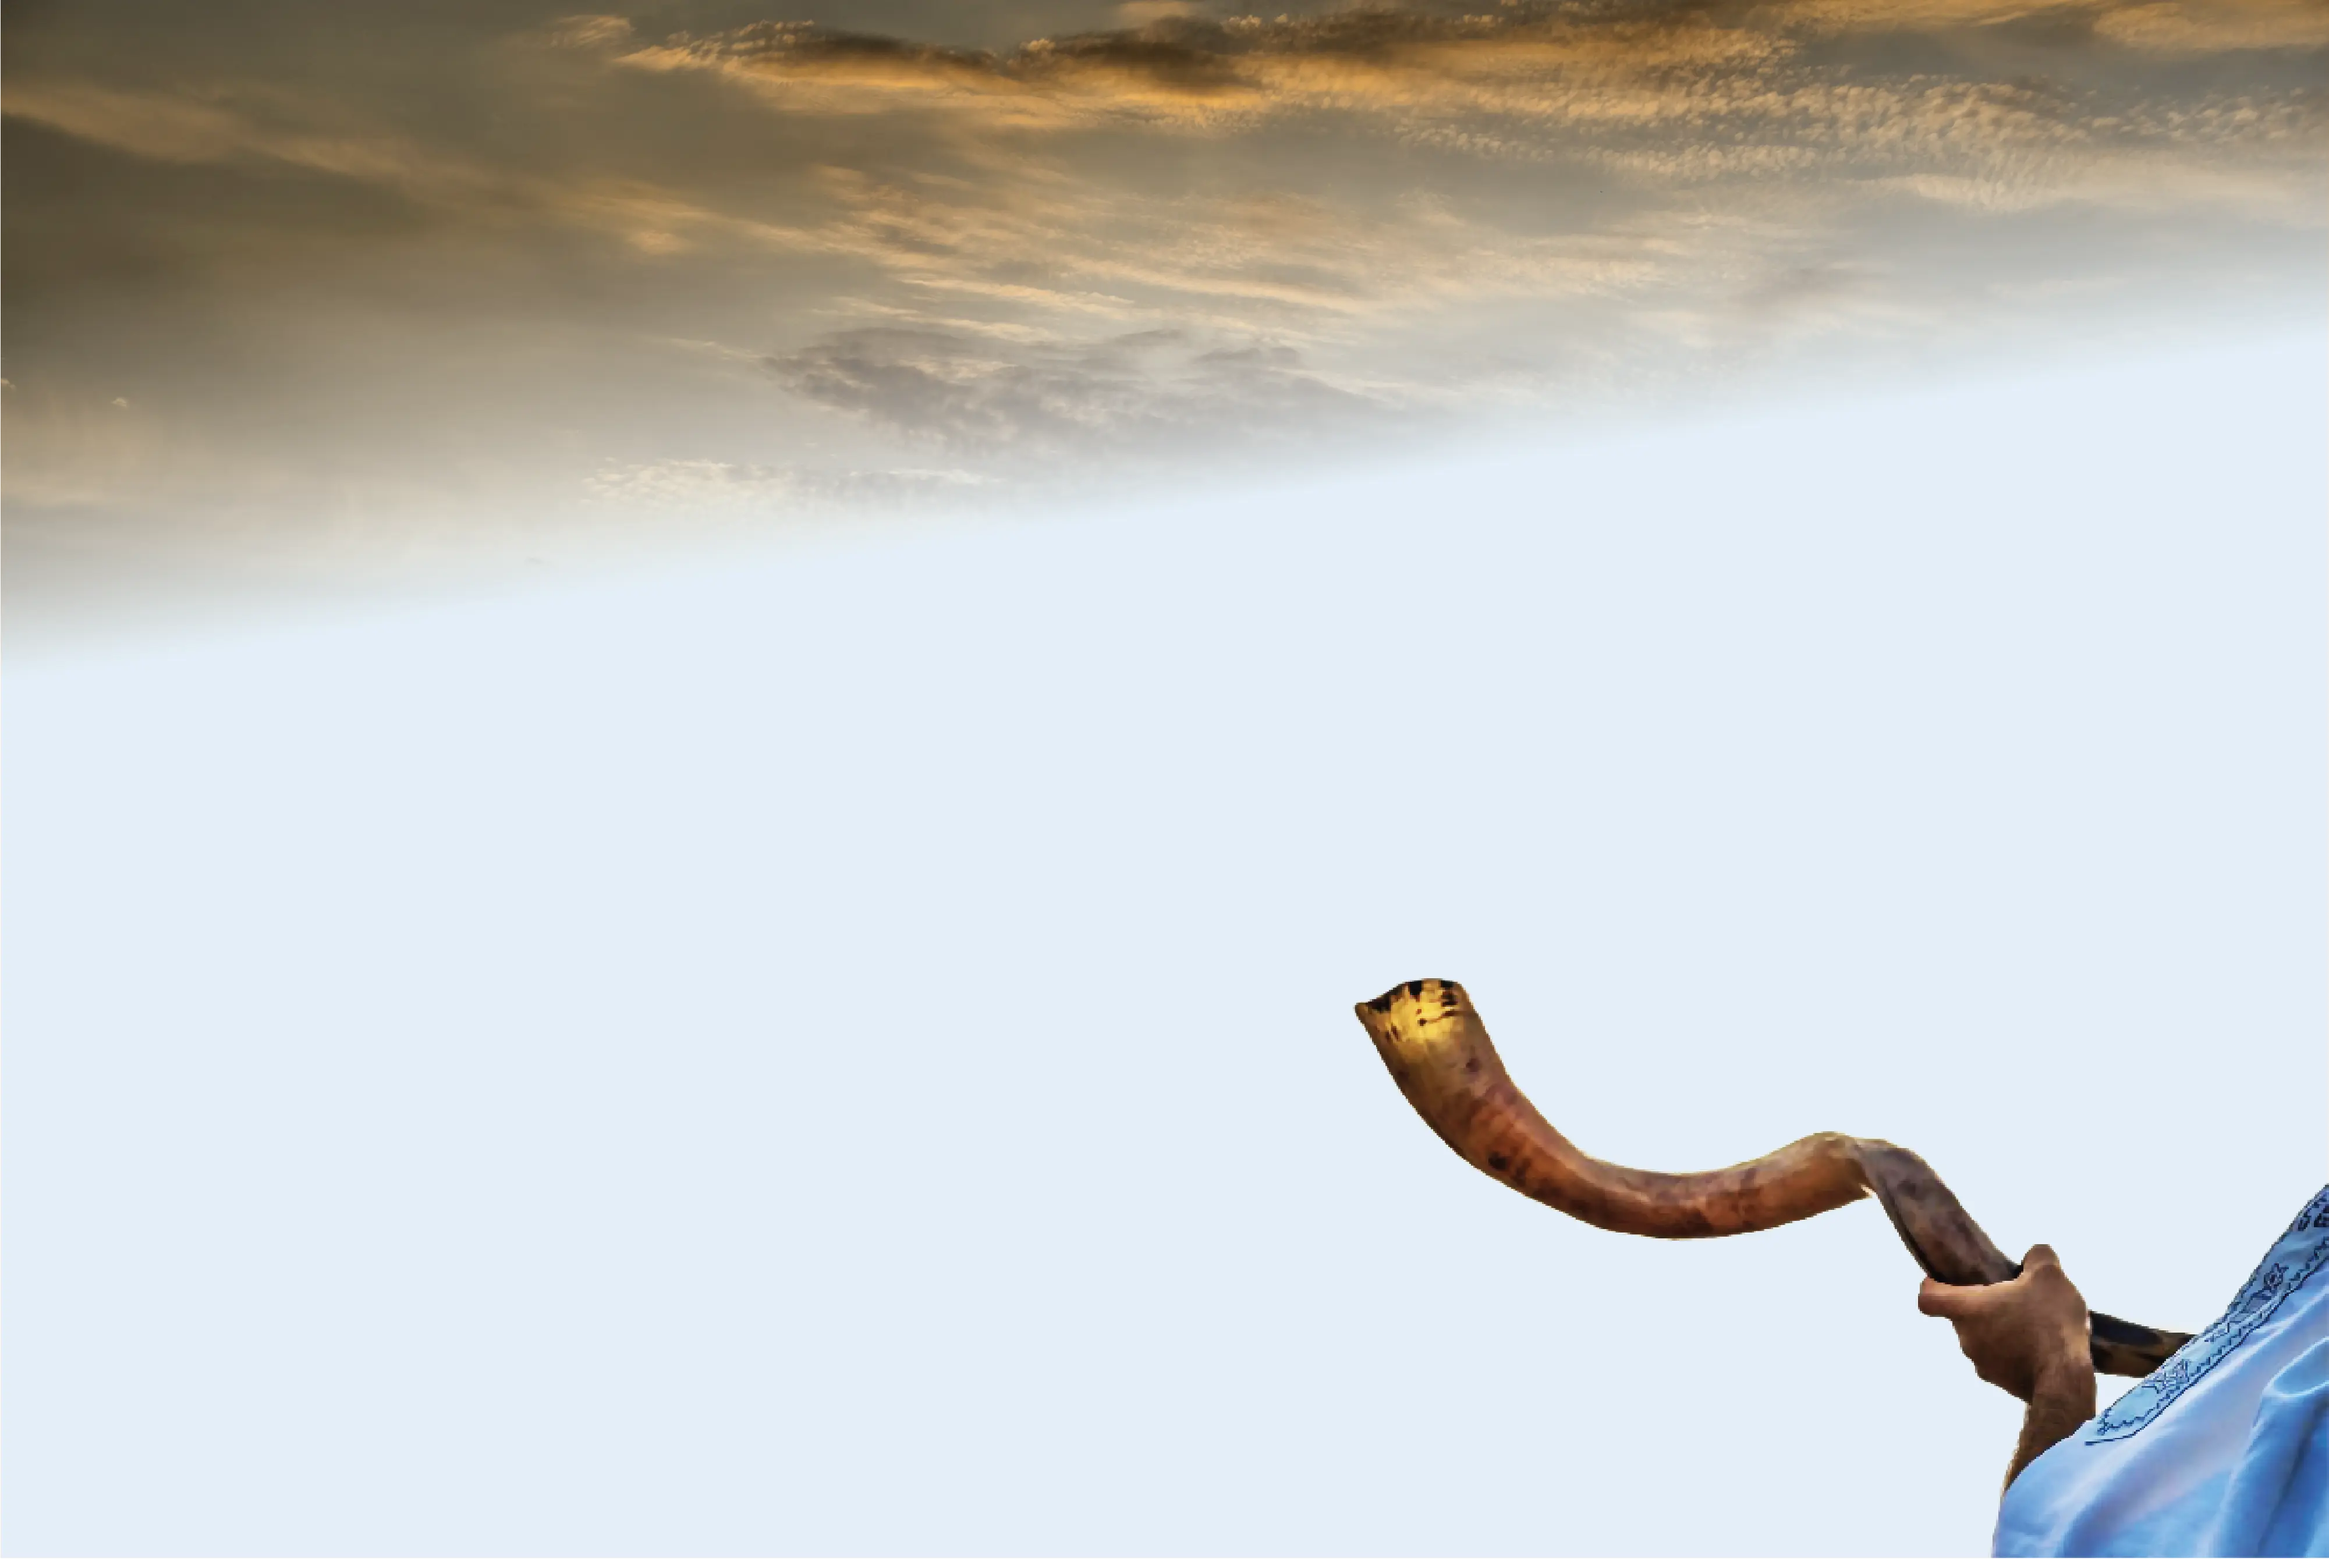
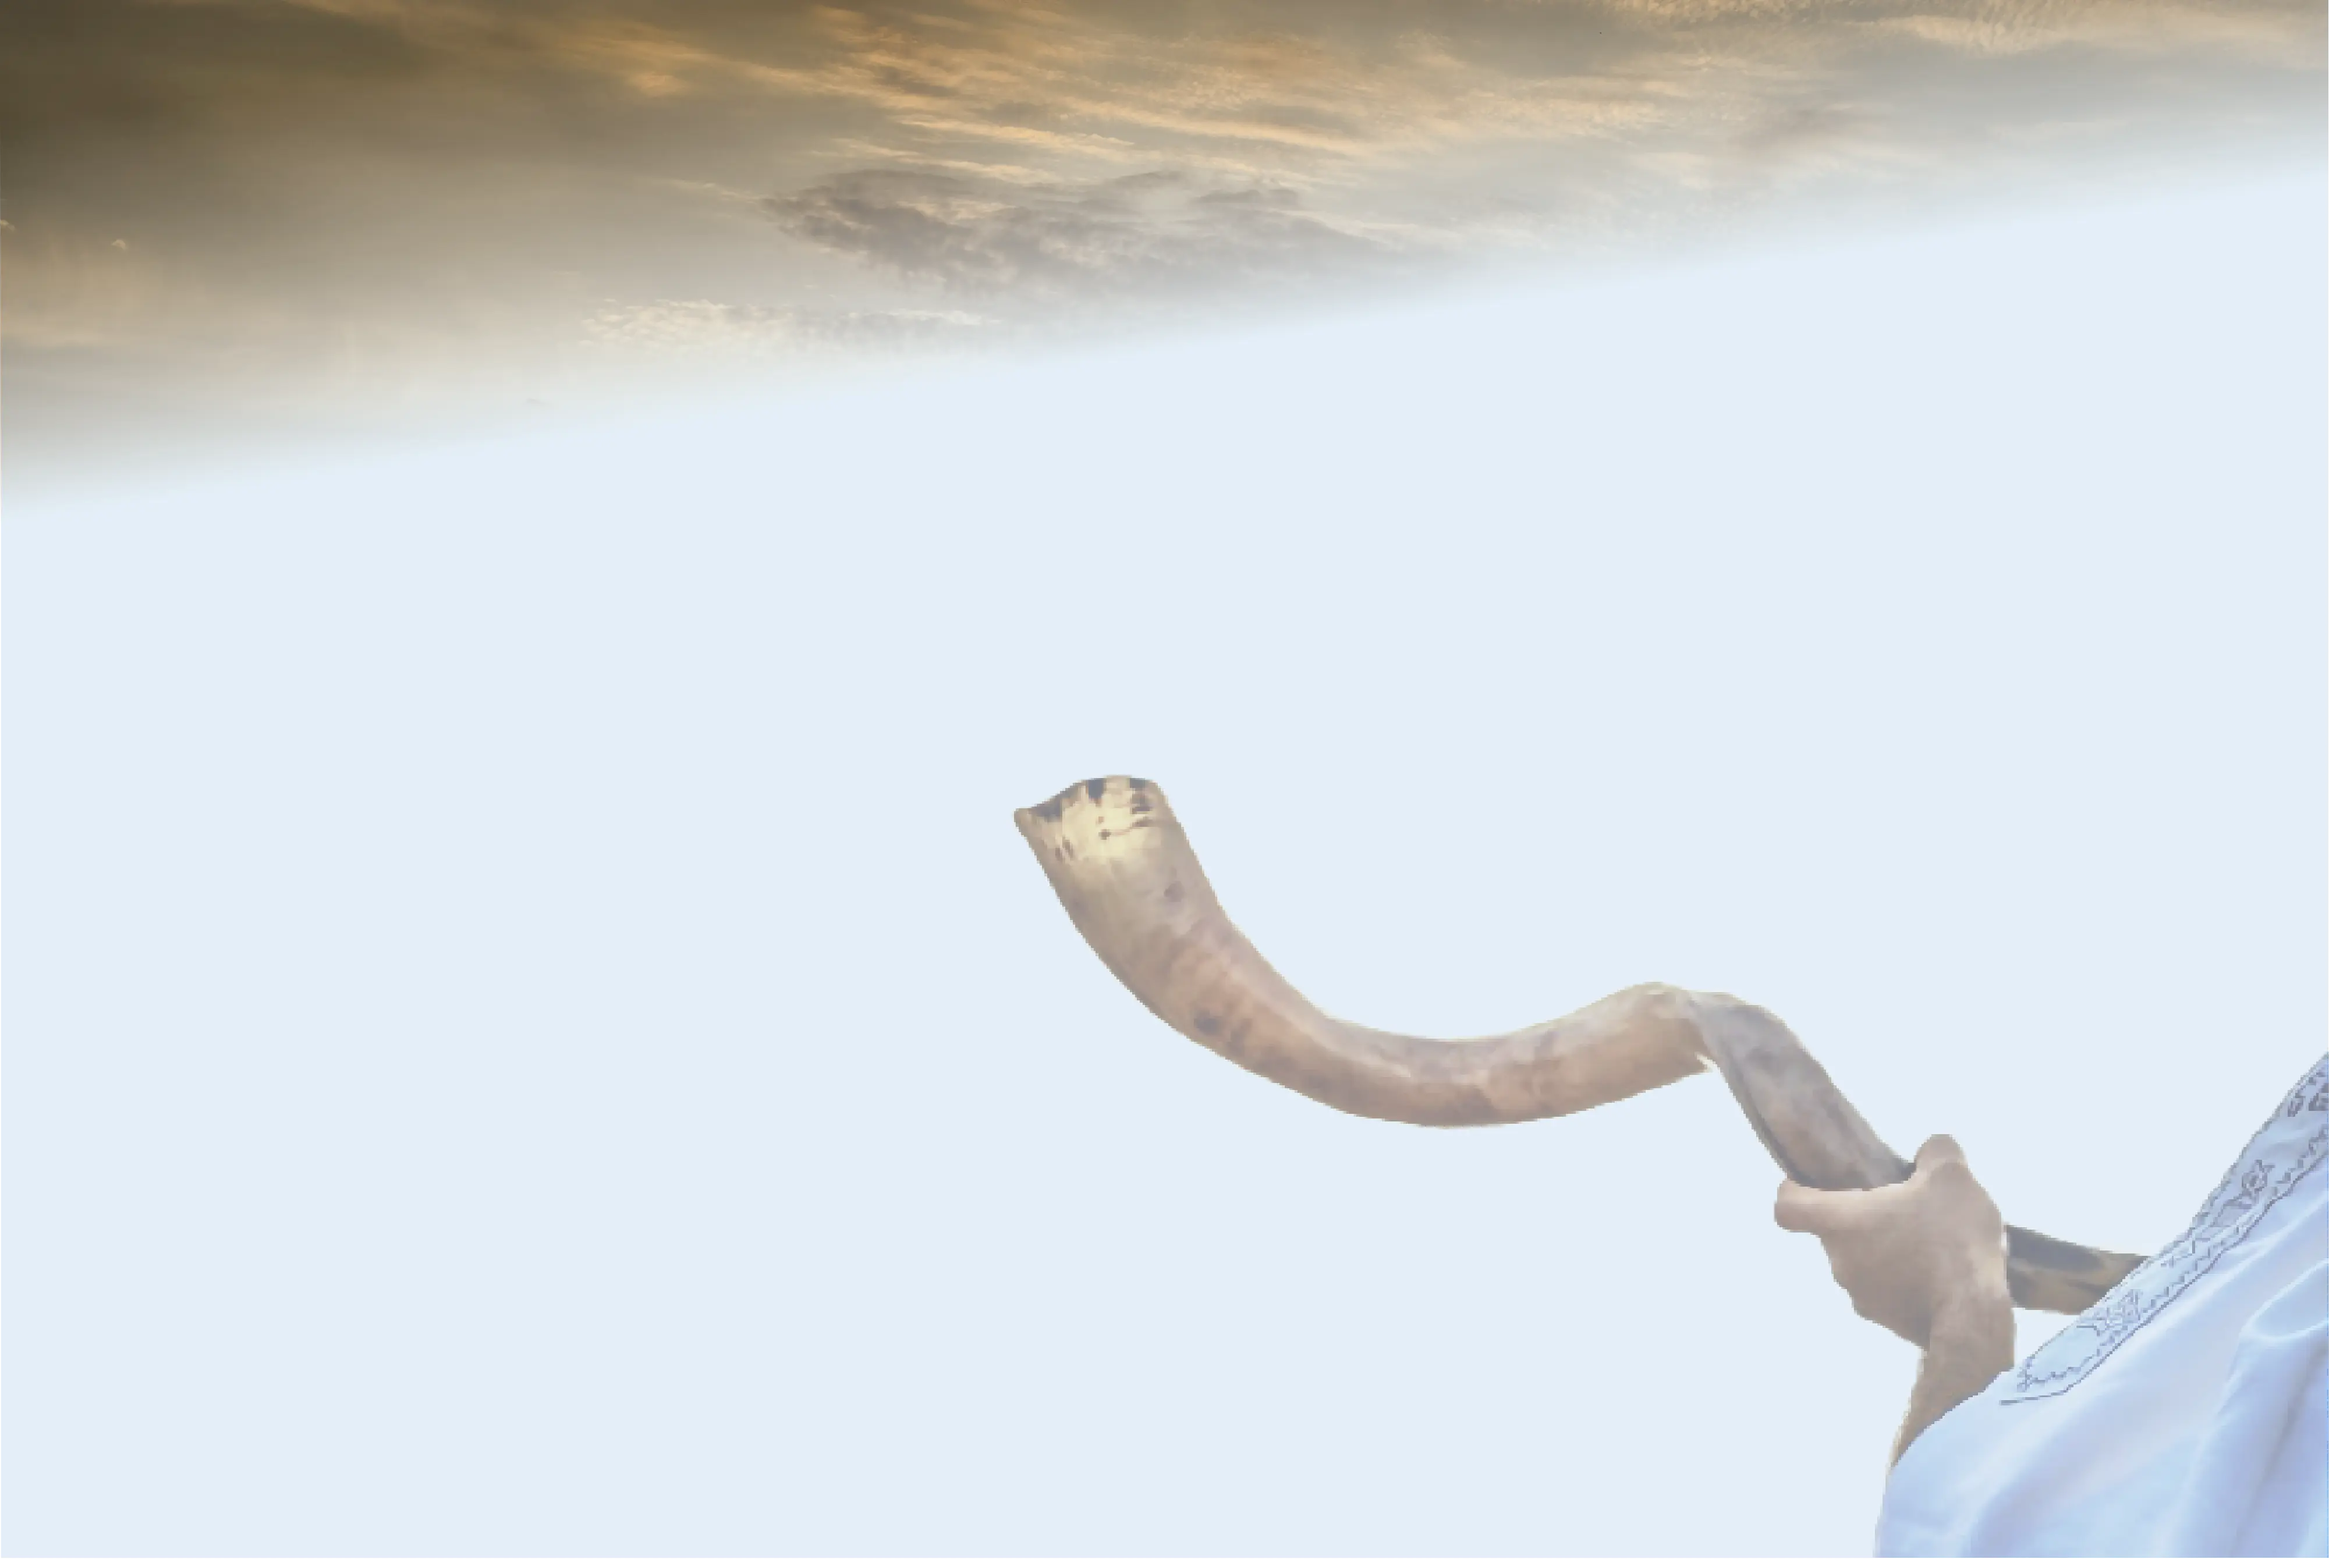
changes for Teruah

diff --git a/index.html b/index.html
@@ -114,20 +114,19 @@
             <a href="https://casadedios.mx/blog-post.php?slug=la-fiesta-de-las-trompetas-una-solemnidad-con-un-mensaje-literal-espiritual-y-prof-tico"
                 class="btn btn-light btn-lg mt-4 custom-btn">
 
-                <!--
-                <svg class="me-2" width="1em" height="1em" viewBox="0 0 668.38 633.48" fill="black"
-                    xmlns="http://www.w3.org/2000/svg">
+                <svg class="me-2" width="1.4em" height="1.4em" viewBox="0 0 283.12 161" fill="currentColor"
+                    xmlns="http://www.w3.org/2000/svg" style="vertical-align: -0.2em;">
                     <g id="nosotros">
                         <g id="Shofar">
-                            <path class="cls-1"
+                            <path
                                 d="M239.63,158.54c-2.24-.34-3.53-2.94-4.8-4.6-3-3.93-5.9-7.5-8.7-11.62-6.43-9.46-11.06-19.5-15.2-30.21-5.06-13.07-8.13-26.29-8.42-40.84-9.02,7.4-19.98,13.12-30.94,16.22-40.58,11.43-73.2-7.33-98.44-37.8l-3.42-4.13h0c-4.74-6.59-11.31-14.44-20.16-22.15-.7-.91-1.63-1.78-3.29-2.77-.16-.13-.31-.26-.47-.39-1.05-.84-2.08-1.65-3.12-2.43-4.19-4.3-9.48-6.96-14.73-9.67t0,0c-3.06-1.94-8.05-4.49-14.6-5.34-2.58-.33-4.92-.34-6.93-.2h0C5.44,1.74,4.52.1,3.4,0,2.03-.11.11.99.09,2.39L0,10.25c-.02,1.88,1.08,3.24,3.01,3.4,1.42.12,2.64-1.44,3.19-3.2h0c3.7.91,9.38,2.72,15.53,6.48l-.02.14c-.02.13.24.17.54.19.75.47,1.5.96,2.25,1.48,1.37,1.29,2.99,2.6,4.61,3.6.42.37.84.74,1.24,1.11l1.15,2.28c1.7.99,2.62,1.91,3.37,3.81l.9-.2c.43.54.85,1.08,1.27,1.64.64,2.36,2.68,4.39,4.57,6.8,1.18,2.18,2.25,4.18,3.23,6.02.09.33.16.67.22,1.02l.48.29c.34.65.67,1.27.99,1.88-.17.41-.23.85-.06,1.21.21.45.66.69,1.14.85.27.52.54,1.03.79,1.52l-.27.24c.35.36.65.69.91.99.71,1.37,1.35,2.63,1.94,3.81.2.56.48,1.21,1.02,2.04,3.34,6.74,5.02,10.65,8.29,17.32,4.48,9.15,11.74,21.65,23.7,35.36,0,0,0,0,0,0,11.81,16.65,25.27,32.37,41.71,44.36,31.54,22.99,72.04,24.74,107.36,10,1.63-.68,7.26-3.43,7.9-4.32.31-.43-.67-1.74-1.34-1.84Z" />
-                            <path class="cls-1"
+                            <path
                                 d="M283.12,75.79c-4.26-15.81-14.94-44.23-29.66-52.13-5.7-3.06-9.85-.27-13.35,4.04l-16.71,20.58c-2.91,22.01,5.85,47.21,16.09,66.52,5.26,9.91,12.4,19.86,21.2,26.73l4.25,3.32c1.39-1.89,2.85-4.1,5.1-4.99l.4-2.48,1.46.89c.2.12.65-.42.91-.65l.68-.6c.15-.13-.03-.58-.21-.64l-1.25-.47c4.39-.73,7.96-2.89,10.11-7.05,7.46-14.44,5.11-37.69.97-53.06Z" />
-                            <path class="cls-1"
+                            <path
                                 d="M231.63,112.74c-8.43-17.92-14.51-35.2-14.89-55.72l-3.65,3.88-4.29,4.54c-.65,10.51.36,20.65,3.26,30.84,5.93,20.9,17.57,47,35.19,60.13,3.32.54,5.07-2.42,7.32-3.7,1.24-.7,2.4-1.35,3.22-2.01l2.1-1.68c-12.31-9.58-21.86-22.66-28.26-36.28Z" />
                         </g>
                     </g>
-                </svg>-->
+                </svg>
                 El Día de las Trompetas
             </a>
         </div>

diff --git a/css/root.css b/css/root.css
@@ -78,7 +78,7 @@ h1, h2, h3 {
 
 .titleDark {
   text-align: center; 
-  color: var(--color-black);
+  color: var(--color-menu);
   font-family: var(--font-text-primary);
   font-size: 5vw;
   text-transform: uppercase;
@@ -98,13 +98,13 @@ h1, h2, h3 {
 }   
 .contentDark{
   font-family: var(--font-text-primary); /* Usando la variable que cree el 3april25 */
-  font-weight: var(--medium);
+  font-weight: var(--semi-bold);
   font-size: 6vw;
   text-align: center;
-  color: var(--color-white);
+  color: var(--color-menu);
   letter-spacing: 0.3rem;
-  line-height: 97%;
-  padding: 1rem 0rem;
+  line-height: 95%;
+  padding: 0.5rem 0rem;
   letter-spacing: -0.2vw;
   text-shadow: 2px 2px 5px var(--color-black);
   
@@ -204,6 +204,20 @@ h1, h2, h3 {
 
 .estrofa-traduccion {
     font-size: 5vw;
+} 
+
+/*Estilos personalziados para las letras de la categoria alabanza 10sep26*/
+.estrofa-alabanza {
+  font-family: var(--font-text-primary); /* Usando la variable que cree el 3april25 */
+  font-weight: var(--semi-bold);
+  font-size: 6vw;
+  text-align: center;
+  color: var(--color-black);
+  letter-spacing: 0.3rem;
+  line-height: 95%;
+  padding: 0.5rem 0rem;
+  letter-spacing: -0.2vw;
+  text-shadow: none; /* ← AGREGAR ESTA LÍNEA */
 }
 
 .footerText {

diff --git a/js/modules/stateManager.js b/js/modules/stateManager.js
@@ -59,6 +59,8 @@ export class __AppState__ {
 function formatearLetra(letra, slug) {
     if (!letra) return '';
     const esHebreo = slug === 'hebreos';
+    const esAlabanza = slug === 'alabanza'; // ← FALTABA ESTA LÍNEA
+
     return letra.split(/\r?\n/).map(linea => {
         if (esHebreo && linea.startsWith('#')) {
             const texto = linea.slice(1).trim();
@@ -67,6 +69,13 @@ function formatearLetra(letra, slug) {
         if (esHebreo) {
             return `<span class="estrofa-traduccion">${linea}</span><br>`;
         }
+
+         // NUEVO: Alabanza - diseño personalizado de las letras en alabanza
+        if (esAlabanza && linea.startsWith('#')) {
+            const texto = linea.slice(1).trim();
+            return `<span class="estrofa-alabanza">${texto}</span><br>`;
+        }
+ 
         return `${linea}<br>`;
     }).join('');
 }

diff --git a/js/menuLoader.js b/js/menuLoader.js
@@ -36,6 +36,17 @@ export class MenuLoader {
 pintarMenu(data) {
     const menuContainer = document.getElementById('menuContainer');
     menuContainer.innerHTML = '';
+
+    // Botón Home al inicio
+    const homeButton = document.createElement('button');
+    homeButton.className = 'btn btn-outline-info rounded-pill';
+    homeButton.innerHTML = '<i class="fas fa-home"></i>';
+    homeButton.addEventListener('click', () => {
+        location.href = location.pathname;
+    });
+    menuContainer.appendChild(homeButton);
+
+    // Resto de categorías 
     data.forEach(({ cat, cantos }) => {
         const menuItem = this.crearCategoriaButton(cat, cantos);
         menuContainer.appendChild(menuItem);

diff --git a/css/styles.css b/css/styles.css
@@ -211,3 +211,26 @@ min-width: 320px;
 
 }
  
+
+/*Button de referencia estética para el hero de cantos.html*/
+.overlaidInsideVerse .verseBadge {
+    display: inline-flex;
+    align-items: center;
+    gap: 6px;
+    border: none;
+    border-radius: 999px;
+    padding: 6px 16px;
+    background: var(--color-primary);
+    color: var(--color-menu);
+    cursor: default;
+    pointer-events: none;
+}
+
+.overlaidInsideVerse .verseBadge h5 {
+    margin: 0;
+    color: var(--color-menu);
+}
+
+.overlaidInsideVerse .verseBadge i {
+    color: var(--color-menu);
+}

diff --git a/js/heroLoader.js b/js/heroLoader.js
@@ -55,10 +55,12 @@ export class HeroLoader {
         // Referencia con ícono
         if (hero.referencia_h5) {
             html += '<div class="overlaidInsideVerse">';
+            html += '<button class="verseBadge" type="button">';
             if (hero.icono_referencia) {
                 html += `<i class="${hero.icono_referencia}"></i> `;
             }
             html += `<h5>${hero.referencia_h5}</h5>`;
+            html += '</button>';
             html += '</div>';
         }
         

diff --git a/cantos.html b/cantos.html
@@ -7,6 +7,7 @@
     <title>Alabanza</title> <!-- Bootstrap 5 -->
     <link href="https://cdn.jsdelivr.net/npm/bootstrap@5.3.3/dist/css/bootstrap.min.css" rel="stylesheet">
     <link rel="stylesheet" href="https://cdn.jsdelivr.net/npm/bootstrap-icons@1.13.1/font/bootstrap-icons.min.css">
+    <link rel="stylesheet" href="https://cdnjs.cloudflare.com/ajax/libs/font-awesome/6.5.1/css/all.min.css">
     <link rel="stylesheet" href="css/styles.css?v=1.0.3">
 
 </head>
